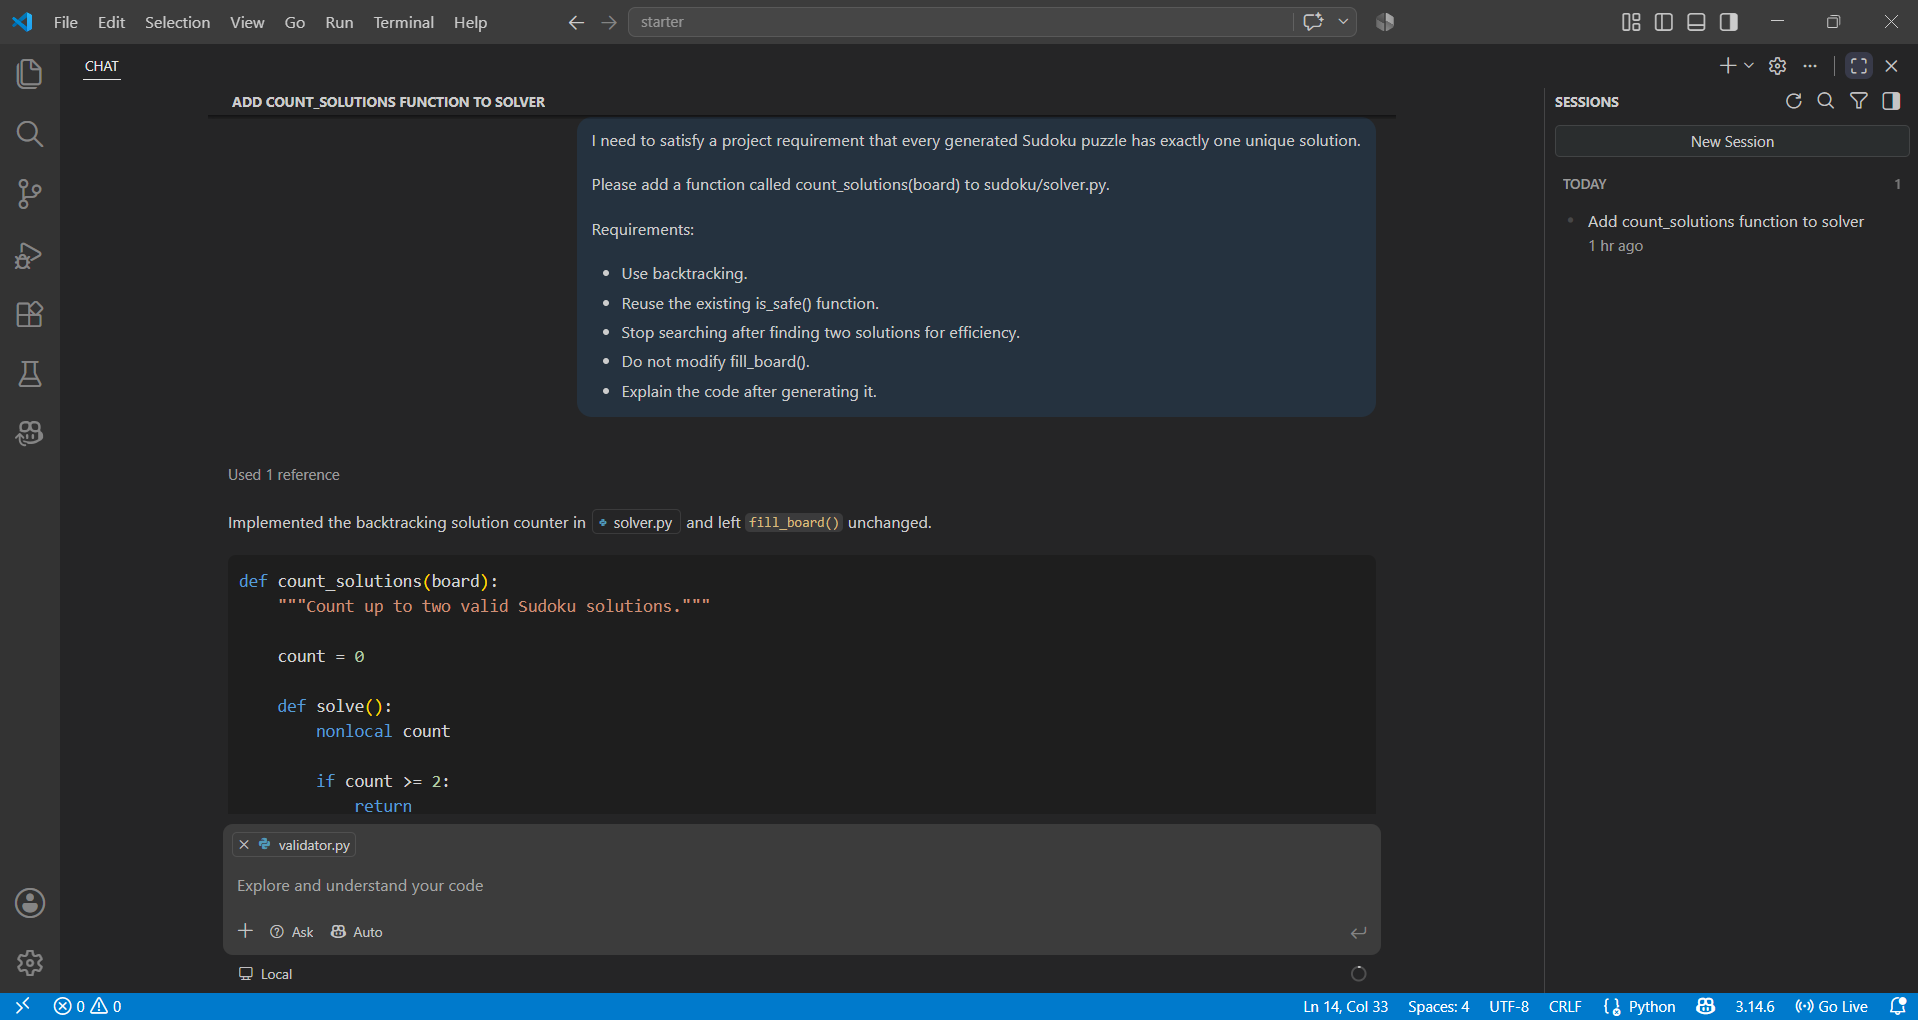
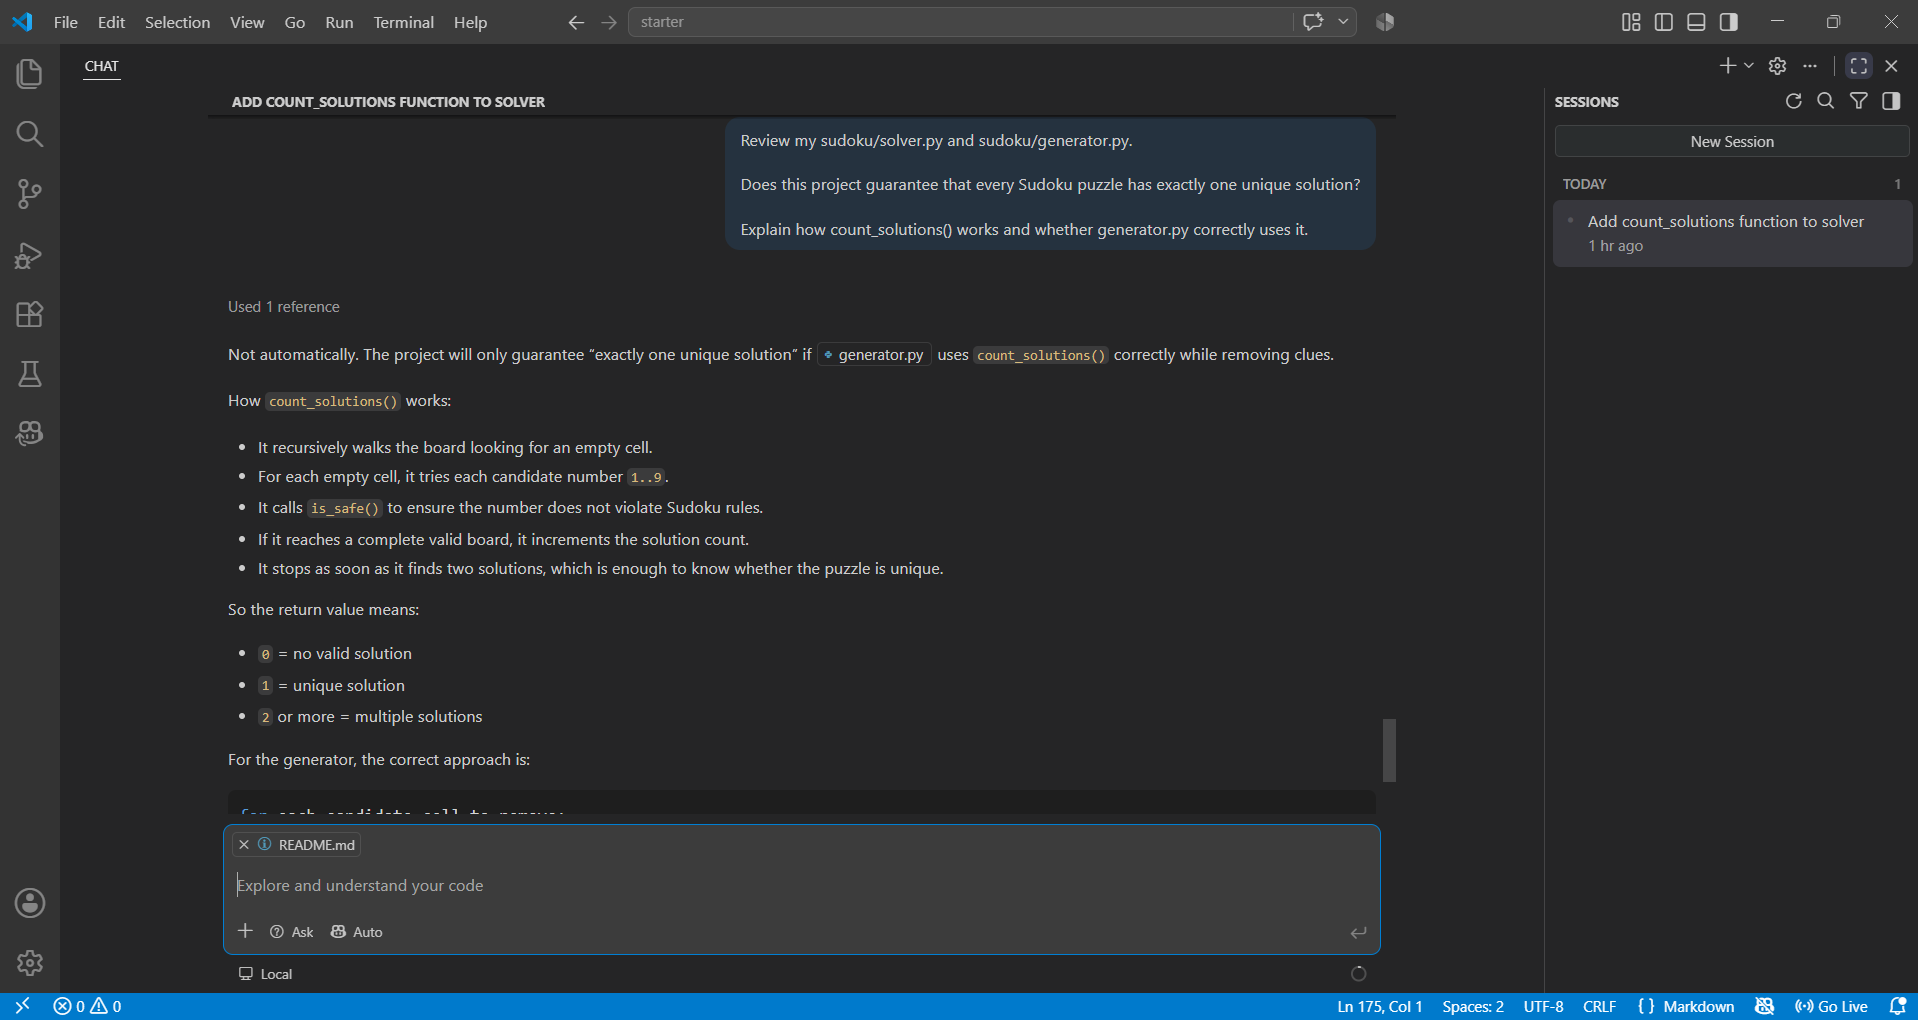
Complete Udacity GitHub Copilot Sudoku Project

diff --git a/starter/README.md b/starter/README.md
@@ -36,6 +36,7 @@ The application has been refactored into a cleaner, modular structure while intr
 - Check Puzzle button
 - Hint button
 - Puzzle completion message
+- Guaranteed unique Sudoku solution
 
 ### Game Features
 
@@ -62,10 +63,18 @@ The application has been refactored into a cleaner, modular structure while intr
 starter/
 │
 ├── app.py
-├── sudoku_logic.py
-├── requirements.txt
 ├── instruction.md
+├── prompts.json
 ├── README.md
+├── requirements.txt
+├── pytest.ini
+│
+├── sudoku/
+│   ├── generator.py
+│   ├── solver.py
+│   ├── validator.py
+│   ├── difficulty.py
+│   ├── utils.py
 │
 ├── templates/
 │   └── index.html
@@ -119,7 +128,7 @@ python app.py
 Open
 
 ```
-http://127.0.0.1:5000
+http://127.0.0.1:8080
 ```
 
 ---
@@ -144,6 +153,8 @@ GitHub Copilot was used for:
 - Local storage leaderboard
 - Responsive layout improvements
 - Dark mode implementation
+
+Copilot suggestions were reviewed before acceptance. Some suggestions were modified or rejected to better fit the project requirements and maintain code quality.
 
 All AI-generated code was reviewed, tested, and modified where necessary.
 
